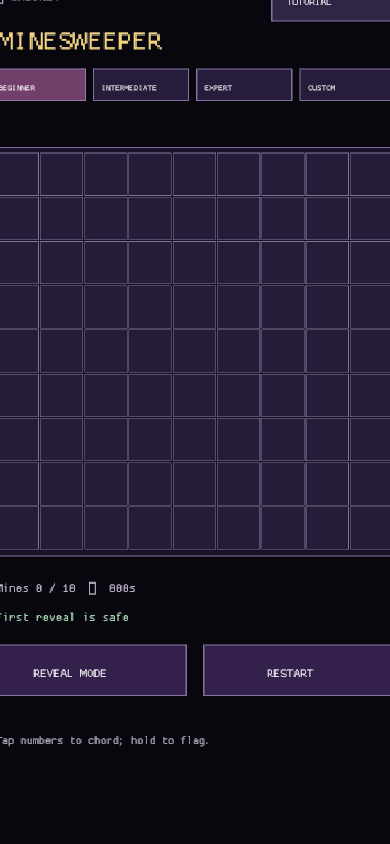
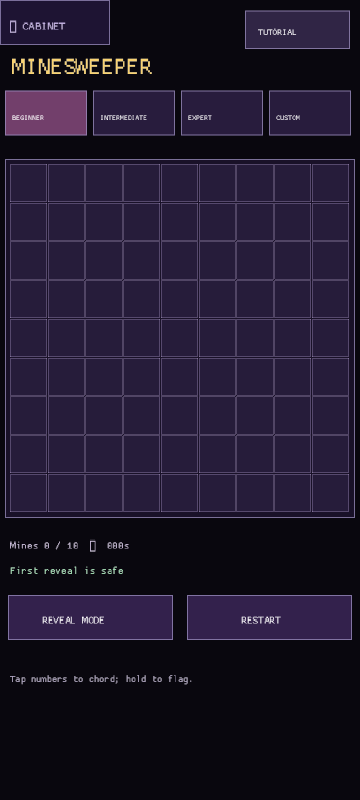
The portrait puzzle shelf makes every choice easy to reach (portrait puzzle selector accessibility)
Portrait Nonogram and Minesweeper preset selectors now use touch-complete rows with centered labels and matching hit regions. Refreshed puzzle captures preserve visual coverage above both boards.

diff --git a/src/responsive_puzzles.rs b/src/responsive_puzzles.rs
@@ -62,7 +62,7 @@ pub fn draw_nonogram(state: &AppState) {
     text("‹ CABINET", 10., 29., 14., Color::new(0.78, 0.70, 0.92, 1.));
     text("NONOGRAM", 12., 78., 32., Color::new(0.98, 0.83, 0.45, 1.));
     for (index, preset) in crate::nonogram::NonogramPreset::ALL.iter().enumerate() {
-        let rect = Rect::new(10. + index as f32 * 113., 92., 103., 30.);
+        let rect = Rect::new(10. + index as f32 * 113., 92., 103., 44.);
         panel(
             rect,
             if *preset == game.preset {
@@ -71,7 +71,7 @@ pub fn draw_nonogram(state: &AppState) {
                 Color::new(0.16, 0.11, 0.24, 1.)
             },
         );
-        text(preset.label(), rect.x + 12., rect.y + 20., 11., WHITE);
+        text(preset.label(), rect.x + 12., rect.y + 29., 11., WHITE);
     }
     panel(BOARD, accessibility::board_fill(state.high_contrast));
     let layout = grid(state);
@@ -237,7 +237,7 @@ pub fn nonogram_clicks(state: &AppState, p: Vec2) -> Vec<UiAction> {
         return vec![UiAction::Cabinet];
     }
     for (index, preset) in crate::nonogram::NonogramPreset::ALL.iter().enumerate() {
-        if Rect::new(10. + index as f32 * 113., 92., 103., 30.).contains(p) {
+        if Rect::new(10. + index as f32 * 113., 92., 103., 44.).contains(p) {
             return vec![UiAction::NonogramPreset(*preset)];
         }
     }
@@ -313,7 +313,7 @@ pub fn draw_minesweeper(state: &AppState) {
         Color::new(0.98, 0.83, 0.45, 1.),
     );
     for (index, preset) in crate::minesweeper::MinePreset::ALL.iter().enumerate() {
-        let rect = Rect::new(5. + index as f32 * 88., 88., 82., 28.);
+        let rect = Rect::new(5. + index as f32 * 88., 88., 82., 44.);
         panel(
             rect,
             if *preset == game.preset {
@@ -322,7 +322,7 @@ pub fn draw_minesweeper(state: &AppState) {
                 Color::new(0.16, 0.11, 0.24, 1.)
             },
         );
-        text(preset.label(), rect.x + 7., rect.y + 19., 9., WHITE);
+        text(preset.label(), rect.x + 7., rect.y + 29., 9., WHITE);
     }
     panel(MINE_BOARD, accessibility::board_fill(state.high_contrast));
     let layout = mine_grid(state);
@@ -448,7 +448,7 @@ pub fn minesweeper_clicks(state: &AppState, p: Vec2) -> Vec<UiAction> {
         return vec![UiAction::Cabinet];
     }
     for (index, preset) in crate::minesweeper::MinePreset::ALL.iter().enumerate() {
-        if Rect::new(5. + index as f32 * 88., 88., 82., 28.).contains(p) {
+        if Rect::new(5. + index as f32 * 88., 88., 82., 44.).contains(p) {
             return vec![UiAction::MinePreset(*preset)];
         }
     }

diff --git a/TODO.md b/TODO.md
@@ -1357,3 +1357,8 @@ contract, shared confirmation safety, responsive capture coverage, and the
 
 - [x] Give portrait card, Sudoku, and 2048 cabinet return actions visible
   touch-sized panels and matching hit regions.
+
+## Phase 142 — Portrait puzzle selector accessibility
+
+- [x] Resize portrait Nonogram and Minesweeper preset selectors to
+  touch-complete targets with refreshed puzzle captures.
